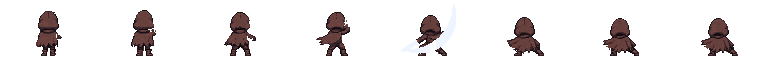
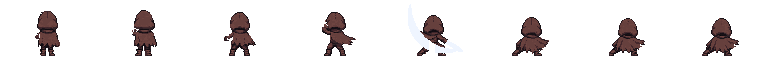
fix: 후면 1타를 왼쪽으로 옮긴 뒤 왼쪽에서 오른쪽으로 베게
사용자: 칼을 꺼내 왼쪽으로 옮긴 다음 왼쪽에서 오른쪽으로 베야 함 (바로 내려치지 않게, 정면처럼).
뒷모습은 거의 좌우 대칭이라 몸·잔상·칼 자리를 좌우로 뒤집었다.

diff --git a/game/config.py b/game/config.py
@@ -195,9 +195,10 @@ PLAYER_ATTACK_FRAME_SHIFTS_FRONT = (
 # 다섯째 값 0 = 칼이 몸에 완전히 가려지는 장 (그리지 않음: 서기, 1타 내려베는 잔상만 있는 장 등).
 PLAYER_ATTACK_SWORD_BACK = (
     # 1타 (2026-11-18 사용자: PixelLab 후면은 허리·다리가 따로 놀고 어정쩡함): ChatGPT 가 정면 1타 8장을 "뒤에서 본 같은 순간"으로
-    # 그린 그림. 오른쪽에 든 칼을 오른쪽 어깨 위로 → 5번째(판정)에 크게 내디디며 왼쪽 아래로 벰(초승달 잔상) → 낮게 마무리.
-    ((55, 39, 42, True), (55, 33, 63, True), (56, 41, 80, True, 0.4), (57, 28, 69, True),
-     (48, 27, -90, True, 0), (39, 43, -151, True), (39, 43, -151, True), (41, 43, -151, True)),
+    # 그린 그림(좌우로 뒤집어 씀). 왼쪽에 든 칼을 왼쪽 어깨 위로 → 5번째(판정)에 크게 내디디며 오른쪽 아래로 벰(초승달 잔상) → 낮게 마무리.
+    # 좌우로 뒤집음 (같은 날 사용자: 칼을 꺼내 왼쪽으로 옮긴 뒤 왼쪽에서 오른쪽으로 베게, 바로 내려치지 않게)
+    ((40, 39, 138, True), (40, 33, 117, True), (39, 41, 100, True, 0.4), (38, 28, 111, True),
+     (47, 27, -90, True, 0), (56, 43, -29, True), (56, 43, -29, True), (54, 43, -29, True)),
     ((48, 27, -90, True, 0), (50, 36, -143, True), (43, 43, -152, True), (56, 31, 60, True),
      (49, 24, 88, True), (47, 28, 64, True), (50, 34, 77, True), (48, 27, -90, True, 0)),
     ((48, 27, -90, True, 0), (54, 37, 90, True), (54, 37, 90, True), (51, 27, 87, True),
